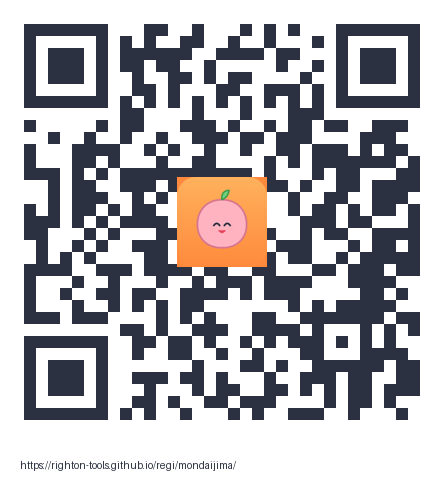
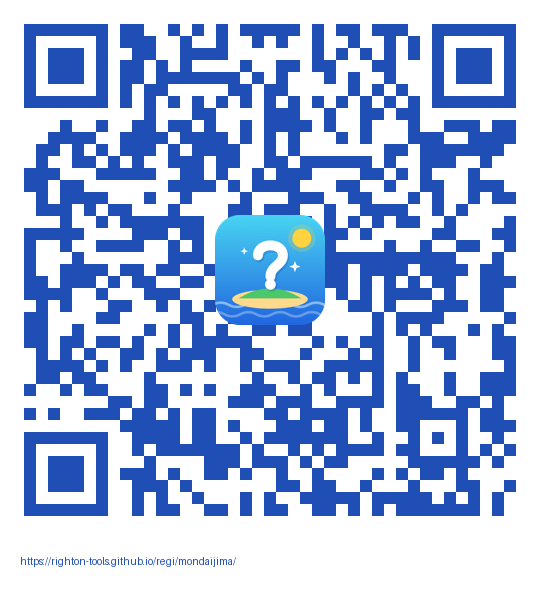
Add files via upload

diff --git a/mondaijima/index.html b/mondaijima/index.html
@@ -36,8 +36,13 @@ input{font:inherit}
 h1,h2,h3{margin:0;text-wrap:balance}
 
 .app{max-width:760px;margin-inline:auto;display:flex;flex-direction:column;gap:14px}
-.logo{font-family:var(--font-pop);font-weight:400;font-size:clamp(30px,8vw,44px);line-height:1.2;color:var(--accent-d);text-align:center}
-.logo small{display:block;font-family:var(--font);font-weight:800;font-size:14px;color:var(--sub);letter-spacing:.2em}
+.logo{display:flex;align-items:center;justify-content:center;gap:clamp(10px,2.5vw,16px);margin:0;line-height:1}
+.logo .mark{width:clamp(48px,12vw,68px);height:clamp(48px,12vw,68px);flex:none;filter:drop-shadow(0 4px 0 rgba(33,102,222,.25))}
+.logo .mark svg{width:100%;height:100%;display:block}
+.logo .wm{font-family:var(--font);font-weight:800;font-size:clamp(30px,8.5vw,48px);letter-spacing:.02em;color:#1f4fb4}
+.logo .wm b{color:var(--accent);font-weight:800}
+.logo.sm .mark{width:40px;height:40px}.logo.sm .wm{font-size:clamp(24px,6vw,32px)}
+.logo-sub{margin:-6px 0 0;text-align:center;font-weight:800;font-size:13px;color:var(--sub);letter-spacing:.18em}
 .card{background:var(--card);border-radius:22px;box-shadow:0 6px 0 var(--line),0 12px 28px var(--shadow);padding:clamp(16px,4vw,26px)}
 .row{display:flex;flex-wrap:wrap;gap:10px;align-items:center}
 .grow{flex:1;min-width:0}
@@ -688,6 +693,8 @@ const rateOf=(score,total)=>score===total?3:score/total>=.85?2:score/total>=.7?1
 /*GEN-END*/
 
 const $=id=>document.getElementById(id);
+const MARK='<svg aria-hidden="true" viewBox="0 0 512 512"><defs><linearGradient id="mjbg" x1="0" y1="0" x2="0" y2="1"><stop offset="0" stop-color="#48d3f2"/><stop offset="1" stop-color="#2166de"/></linearGradient><clipPath id="mjc"><rect width="512" height="512" rx="116"/></clipPath></defs><g clip-path="url(#mjc)"><rect width="512" height="512" fill="url(#mjbg)"/><circle cx="404" cy="108" r="44" fill="#ffd23f"/><circle cx="404" cy="108" r="64" fill="#ffd23f" opacity=".22"/><path d="M-10 418q37-20 74 0t74 0 74 0 74 0 74 0 74 0 74 0 74 0" fill="none" stroke="#fff" stroke-width="12" stroke-linecap="round" opacity=".45"/><path d="M-30 462q37-20 74 0t74 0 74 0 74 0 74 0 74 0 74 0 74 0" fill="none" stroke="#fff" stroke-width="12" stroke-linecap="round" opacity=".3"/><ellipse cx="256" cy="392" rx="176" ry="44" fill="#ffd98c"/><path d="M110 388Q256 296 402 388Z" fill="#4cc76a"/><path d="M200 188c0-62 116-62 116 0 0 44-58 50-58 98" fill="none" stroke="#123f9e" stroke-opacity=".22" stroke-width="46" stroke-linecap="round" transform="translate(7 9)"/><circle cx="265" cy="332" r="25" fill="#123f9e" fill-opacity=".22"/><path d="M200 188c0-62 116-62 116 0 0 44-58 50-58 98" fill="none" stroke="#fff" stroke-width="46" stroke-linecap="round"/><circle cx="258" cy="323" r="25" fill="#fff"/><path d="M372 214l7 19 19 7-19 7-7 19-7-19-19-7 19-7z" fill="#fff"/><path d="M136 150l5 13 13 5-13 5-5 13-5-13-13-5 13-5z" fill="#fff" opacity=".85"/></g></svg>';
+const LOGO=sm=>'<h1 class="logo'+(sm?' sm':'')+'"><span class="mark">'+MARK+'</span><span class="wm">もんだい<b>じま</b></span></h1>';
 const esc=s=>String(s).replace(/[&<>"]/g,c=>({"&":"&amp;","<":"&lt;",">":"&gt;",'"':"&quot;"}[c]));
 const STAR='<svg viewBox="0 0 24 24" aria-hidden="true"><path d="M12 2.5l2.9 6.2 6.6.8-4.9 4.6 1.3 6.6L12 17.4l-5.9 3.3 1.3-6.6L2.5 9.5l6.6-.8z" fill="#ffc93c" stroke="#e0a400" stroke-width="1.2" stroke-linejoin="round"/></svg>';
 const STAR_G='<svg viewBox="0 0 24 24" aria-hidden="true"><path d="M12 2.5l2.9 6.2 6.6.8-4.9 4.6 1.3 6.6L12 17.4l-5.9 3.3 1.3-6.6L2.5 9.5l6.6-.8z" fill="#e7edf1" stroke="#cfe0e8" stroke-width="1.2" stroke-linejoin="round"/></svg>';
@@ -758,7 +765,7 @@ function render(){
   if(S.screen==="map"){const w=a.querySelector(".mapwrap"),n=a.querySelector(".isl.now");if(w&&n)w.scrollLeft=Math.max(0,n.offsetLeft-w.clientWidth/2+56)}
 }
 function homeHTML(){
-  return '<h1 class="logo">もんだいじま<small>さんすう・こくご・じょうしき の ぼうけん</small></h1>'+
+  return LOGO()+'<p class="logo-sub">さんすう・こくご・じょうしき の ぼうけん</p>'+
   '<section class="card"><div class="row" style="justify-content:space-between"><p class="sec">'+(S.edit?"けす プレイヤーを えらんでね":"だれが あそぶ？")+'</p>'+(S.players.length?(S.edit?'<button class="btn sub sm" data-act="editoff">おわる</button>':'<button class="link" data-act="gate" data-next="edit">プレイヤーを けす</button>'):"")+'</div><div class="players" style="margin-top:10px">'+
   S.players.map(p=>S.edit?('<div class="pcard edit">'+pal(p.char)+'<span class="pname">'+esc(p.name)+'</span>'+(S.delId===p.id?'<span class="danger" style="font-size:13px;font-weight:800">ほんとうに けす？</span><div class="row" style="gap:6px"><button class="btn sub sm" data-act="hdelno">やめる</button><button class="btn sm del" data-act="hdelyes" data-id="'+p.id+'">けす</button></div>':'<button class="btn sm del" data-act="hdel" data-id="'+p.id+'">けす</button>')+'</div>'):('<button class="pcard" data-act="pick" data-id="'+p.id+'">'+pal(p.char)+'<span class="pname">'+esc(p.name)+'</span><span class="plv">レベル '+lv(coinsOf(p))+'・'+COIN+coinsOf(p)+'</span></button>')).join("")+
   (S.edit?"":'<button class="pcard new" data-act="new">＋ あたらしく つくる</button>')+'</div></section>'+
@@ -767,7 +774,7 @@ function homeHTML(){
 }
 function newHTML(){
   const c=S.creating;
-  return '<h1 class="logo">もんだいじま</h1><section class="card" style="display:flex;flex-direction:column;gap:16px"><p class="sec">なまえを いれてね</p>'+
+  return LOGO(1)+'<section class="card" style="display:flex;flex-direction:column;gap:16px"><p class="sec">なまえを いれてね</p>'+
   '<input id="nameIn" class="name-in" maxlength="10" placeholder="なまえ" value="'+esc(c.name)+'" autocomplete="off">'+
   '<p class="sec">あいぼうを えらぼう</p><div class="charpick">'+Object.keys(CHARS).map(k=>'<button data-act="char" data-id="'+k+'" aria-pressed="'+(c.char===k)+'">'+pal(k)+'<span>'+CHARS[k].name+'</span><small>'+CHARS[k].desc+'</small></button>').join("")+'</div>'+
   '<div class="row"><button class="btn sub" data-act="home">もどる</button><button class="btn grow" data-act="create">これで きめる</button></div></section>';
@@ -778,7 +785,7 @@ const ICON={math:'<svg viewBox="0 0 48 48" aria-hidden="true"><rect x="6" y="6" 
   mix:'<svg viewBox="0 0 48 48" aria-hidden="true"><rect x="6" y="6" width="36" height="36" rx="8" fill="#fff9e0" stroke="#d9a600" stroke-width="3"/><path d="M24 11l3.8 8 8.7 1-6.4 6 1.7 8.6L24 30.5l-7.8 4.1 1.7-8.6-6.4-6 8.7-1z" fill="#ffc93c" stroke="#d9a600" stroke-width="2" stroke-linejoin="round"/></svg>'};
 function modeHTML(){
   const p=S.player;
-  return '<h1 class="logo">もんだいじま</h1><section class="card" style="display:flex;flex-direction:column;gap:14px"><div class="stage">'+pal(p.char)+'<div class="bubble">'+esc(p.name)+'、どの みちを すすむ？</div></div>'+
+  return LOGO(1)+'<section class="card" style="display:flex;flex-direction:column;gap:14px"><div class="stage">'+pal(p.char)+'<div class="bubble">'+esc(p.name)+'、どの みちを すすむ？</div></div>'+
   '<div class="modes">'+Object.keys(MODES).map(m=>{const pr=prog(p,m);const cl=Object.values(pr.rate).filter(r=>r>0).length;return '<button class="mode" data-act="map" data-mode="'+m+'">'+ICON[m]+MODES[m]+'<small>'+({math:"けいさん・とけい・かたち",jp:"かんじ・ことば",jo:"いきもの・くらし・ことわざ",mix:"ぜんぶ まぜて"})[m]+'</small><span class="prog">'+(cl?cl+"つの しまを クリア":"まだ はじめてない")+'</span></button>'}).join("")+'</div>'+
   '<div class="row" style="justify-content:center"><button class="btn sub" data-act="mine">きろくを みる</button></div><button class="link" data-act="home" style="align-self:center">ほかの ひとに かわる</button></section>';
 }
@@ -846,7 +853,7 @@ function resultHTML(){
   '<div class="row" style="width:100%;margin-top:6px">'+(r>0?'<button class="btn grow" data-act="stage" data-k="'+(g.k+1)+'">つぎの しまへ</button><button class="btn sub grow" data-act="stage" data-k="'+g.k+'">もういちど</button>':'<button class="btn grow" data-act="stage" data-k="'+g.k+'">もういちど ちょうせん</button>')+'</div><div class="row" style="justify-content:center"><button class="link" data-act="map" data-mode="'+g.mode+'">マップへ もどる</button><button class="link" data-act="mine">きろくを みる</button></div></section>';
 }
 /* おうちのひと */
-function gateHTML(){const q=S.gate;return '<h1 class="logo">もんだいじま</h1><section class="card" style="display:flex;flex-direction:column;gap:14px;align-items:center"><p class="sec">おうちのひと かくにん'+(q.next==="edit"?"（プレイヤーを けす）":"")+'</p><p class="muted" style="margin:0">おとなの ひとに やってもらってね</p><div class="q-eq">'+q.a+' × '+q.b+' ＝ ？</div>'+
+function gateHTML(){const q=S.gate;return LOGO(1)+'<section class="card" style="display:flex;flex-direction:column;gap:14px;align-items:center"><p class="sec">おうちのひと かくにん'+(q.next==="edit"?"（プレイヤーを けす）":"")+'</p><p class="muted" style="margin:0">おとなの ひとに やってもらってね</p><div class="q-eq">'+q.a+' × '+q.b+' ＝ ？</div>'+
   '<div class="pad"><div class="disp'+(q.typed?"":" empty")+'">'+(q.typed||"？")+'</div>'+[1,2,3,4,5,6,7,8,9].map(n=>'<button class="key" data-act="gkey" data-k="'+n+'">'+n+'</button>').join("")+'<button class="key del" data-act="gkey" data-k="del">けす</button><button class="key" data-act="gkey" data-k="0">0</button><button class="key go" data-act="gsubmit"'+(q.typed?"":" disabled")+'>OK</button></div>'+(q.err?'<p class="danger">ちがいます</p>':"")+'<button class="link" data-act="home">もどる</button></section>'}
 async function openParent(){S.parent={pid:S.players[0]?S.players[0].id:null,plays:null,confirmDel:false};S.screen="parent";render();await loadPlays()}
 async function openMine(){S.parent={pid:S.player.id,plays:null,confirmDel:false,kid:true};S.screen="parent";render();await loadPlays()}
